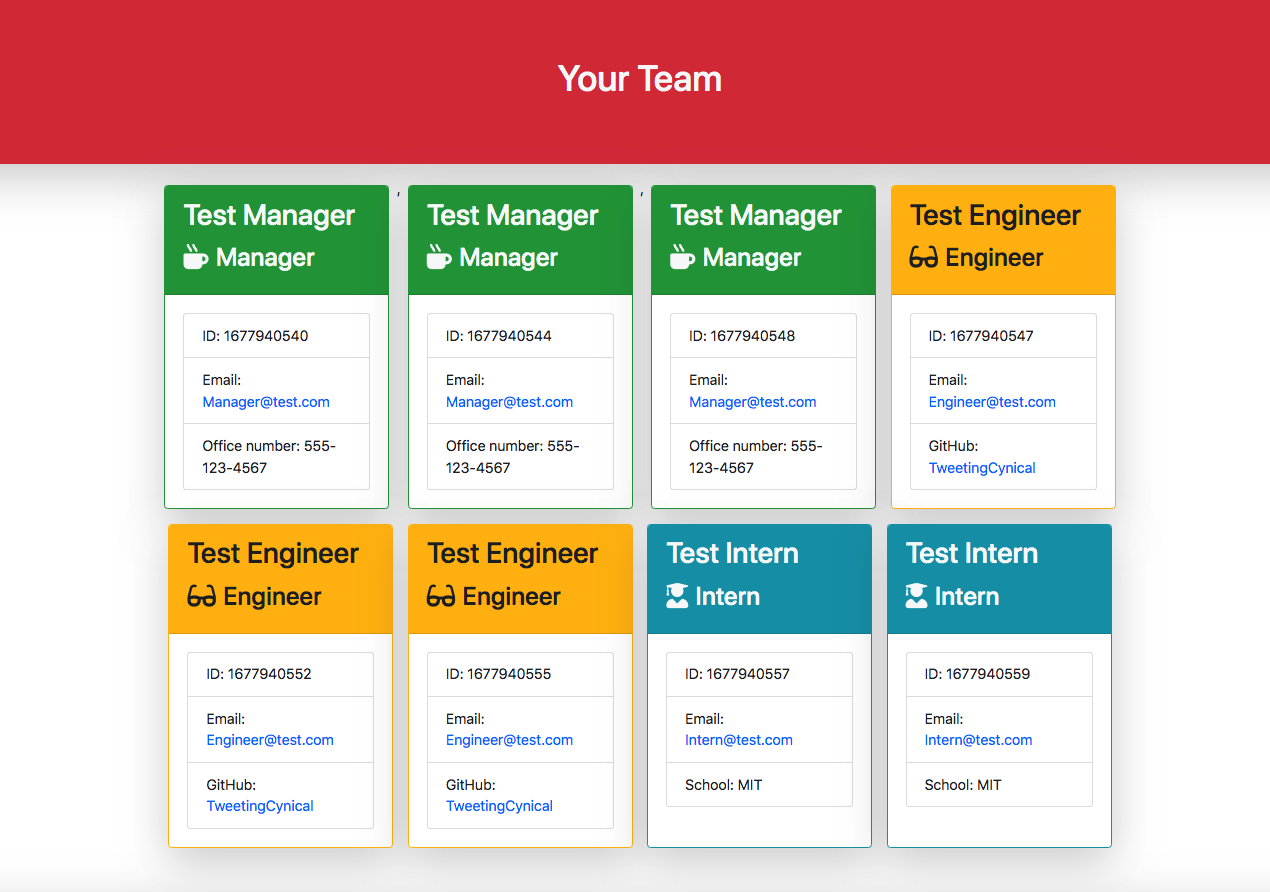
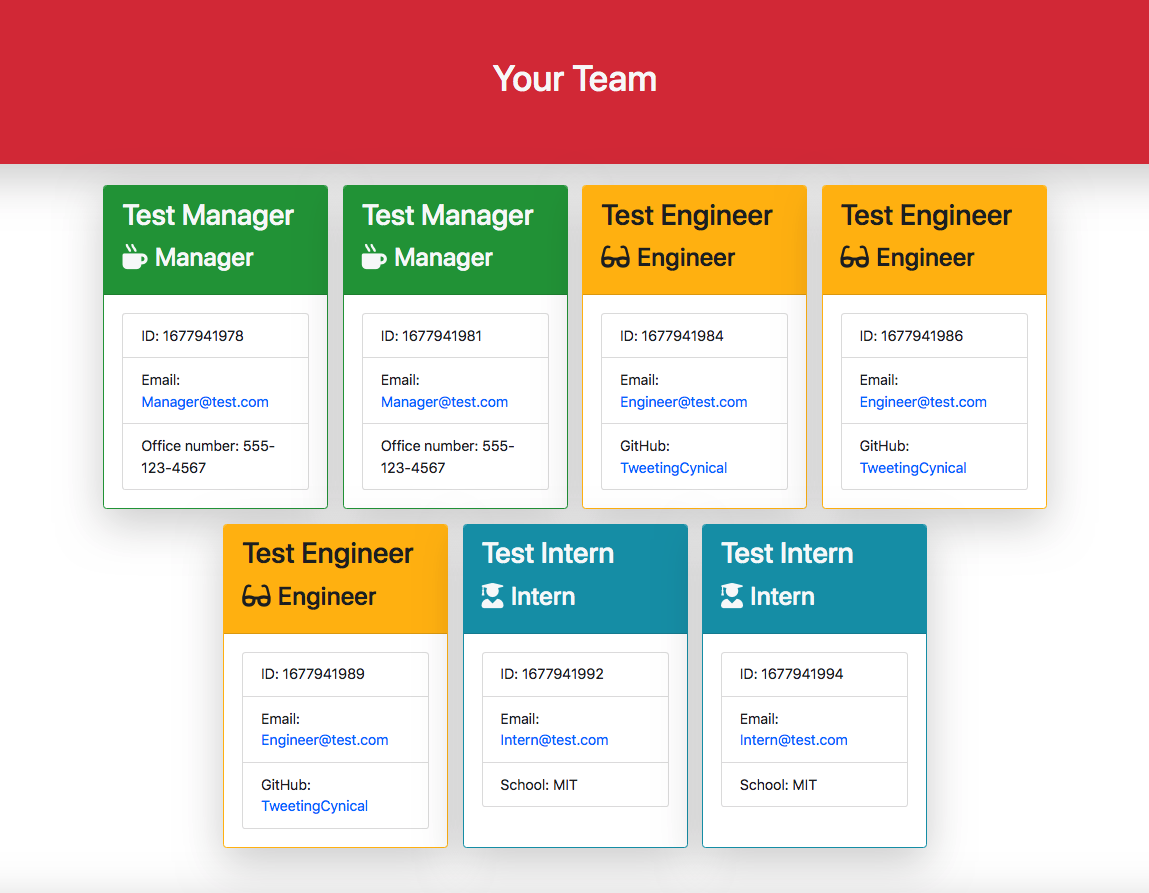
Updated minor error on .join(""). New screenshot

diff --git a/output/team.html b/output/team.html
@@ -32,13 +32,13 @@
         </div>
         <div class="card-body">
             <ul class="list-group">
-                <li class="list-group-item">ID: 1677940540</li>
+                <li class="list-group-item">ID: 1677941978</li>
                 <li class="list-group-item">Email: <a href="mailto:Manager@test.com">Manager@test.com</a></li>
                 <li class="list-group-item">Office number: 555-123-4567</li>
             </ul>
         </div>
     </div>
-        ,
+        
         <div class="card employee-card m-2 border border-success shadow-lg">
         <div class="card-header bg-success">
             <h2 class="card-title text-light">Test Manager</h2>
@@ -46,21 +46,7 @@
         </div>
         <div class="card-body">
             <ul class="list-group">
-                <li class="list-group-item">ID: 1677940544</li>
-                <li class="list-group-item">Email: <a href="mailto:Manager@test.com">Manager@test.com</a></li>
-                <li class="list-group-item">Office number: 555-123-4567</li>
-            </ul>
-        </div>
-    </div>
-        ,
-        <div class="card employee-card m-2 border border-success shadow-lg">
-        <div class="card-header bg-success">
-            <h2 class="card-title text-light">Test Manager</h2>
-            <h3 class="card-title text-light"><i class="fas fa-mug-hot mr-2"></i>Manager</h3>
-        </div>
-        <div class="card-body">
-            <ul class="list-group">
-                <li class="list-group-item">ID: 1677940548</li>
+                <li class="list-group-item">ID: 1677941981</li>
                 <li class="list-group-item">Email: <a href="mailto:Manager@test.com">Manager@test.com</a></li>
                 <li class="list-group-item">Office number: 555-123-4567</li>
             </ul>
@@ -74,7 +60,7 @@
     </div>
     <div class="card-body">
         <ul class="list-group">
-            <li class="list-group-item">ID: 1677940547</li>
+            <li class="list-group-item">ID: 1677941984</li>
             <li class="list-group-item">Email: <a href="mailto:Engineer@test.com">Engineer@test.com</a></li>
             <li class="list-group-item">GitHub: <a href="https://github.com/TweetingCynical" target="_blank" rel="noopener noreferrer">TweetingCynical</a></li>
         </ul>
@@ -88,7 +74,7 @@
     </div>
     <div class="card-body">
         <ul class="list-group">
-            <li class="list-group-item">ID: 1677940552</li>
+            <li class="list-group-item">ID: 1677941986</li>
             <li class="list-group-item">Email: <a href="mailto:Engineer@test.com">Engineer@test.com</a></li>
             <li class="list-group-item">GitHub: <a href="https://github.com/TweetingCynical" target="_blank" rel="noopener noreferrer">TweetingCynical</a></li>
         </ul>
@@ -102,7 +88,7 @@
     </div>
     <div class="card-body">
         <ul class="list-group">
-            <li class="list-group-item">ID: 1677940555</li>
+            <li class="list-group-item">ID: 1677941989</li>
             <li class="list-group-item">Email: <a href="mailto:Engineer@test.com">Engineer@test.com</a></li>
             <li class="list-group-item">GitHub: <a href="https://github.com/TweetingCynical" target="_blank" rel="noopener noreferrer">TweetingCynical</a></li>
         </ul>
@@ -116,7 +102,7 @@
     </div>
     <div class="card-body">
         <ul class="list-group">
-            <li class="list-group-item">ID: 1677940557</li>
+            <li class="list-group-item">ID: 1677941992</li>
             <li class="list-group-item">Email: <a href="mailto:Intern@test.com">Intern@test.com</a></li>
             <li class="list-group-item">School: MIT</li>
         </ul>
@@ -130,7 +116,7 @@
     </div>
     <div class="card-body">
         <ul class="list-group">
-            <li class="list-group-item">ID: 1677940559</li>
+            <li class="list-group-item">ID: 1677941994</li>
             <li class="list-group-item">Email: <a href="mailto:Intern@test.com">Intern@test.com</a></li>
             <li class="list-group-item">School: MIT</li>
         </ul>

diff --git a/src/page-template.js b/src/page-template.js
@@ -63,6 +63,7 @@ const generateTeam = (team) => {
     team
       .filter((employee) => employee.getRole() === "Manager")
       .map((manager) => generateManager(manager))
+      .join("")
   );
   html.push(
     team
